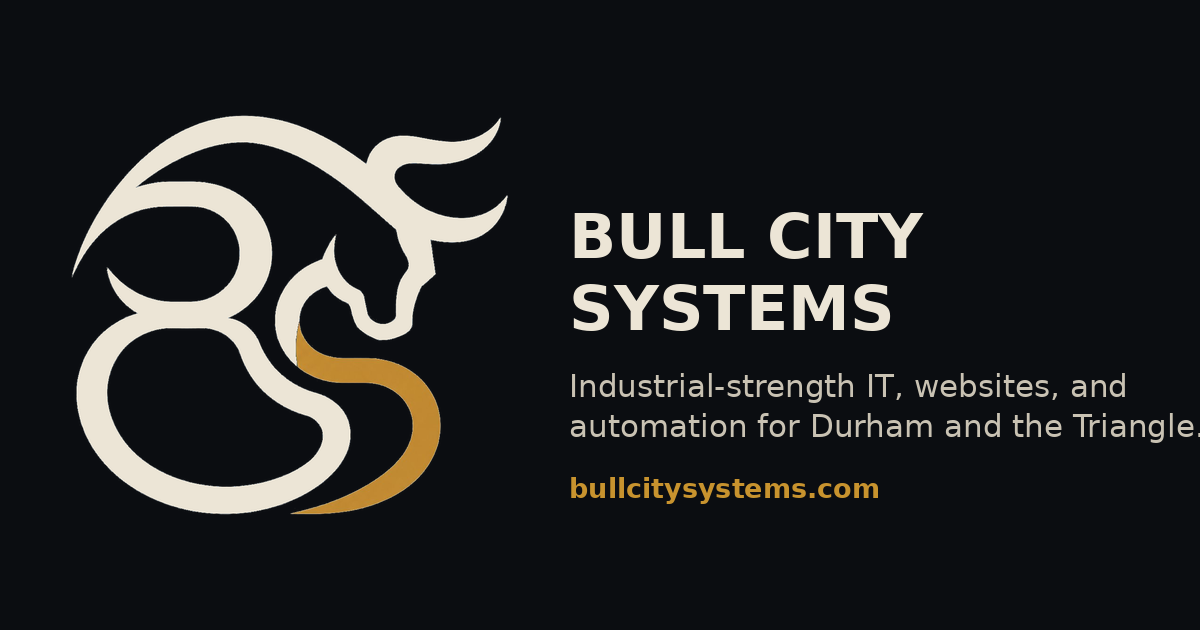
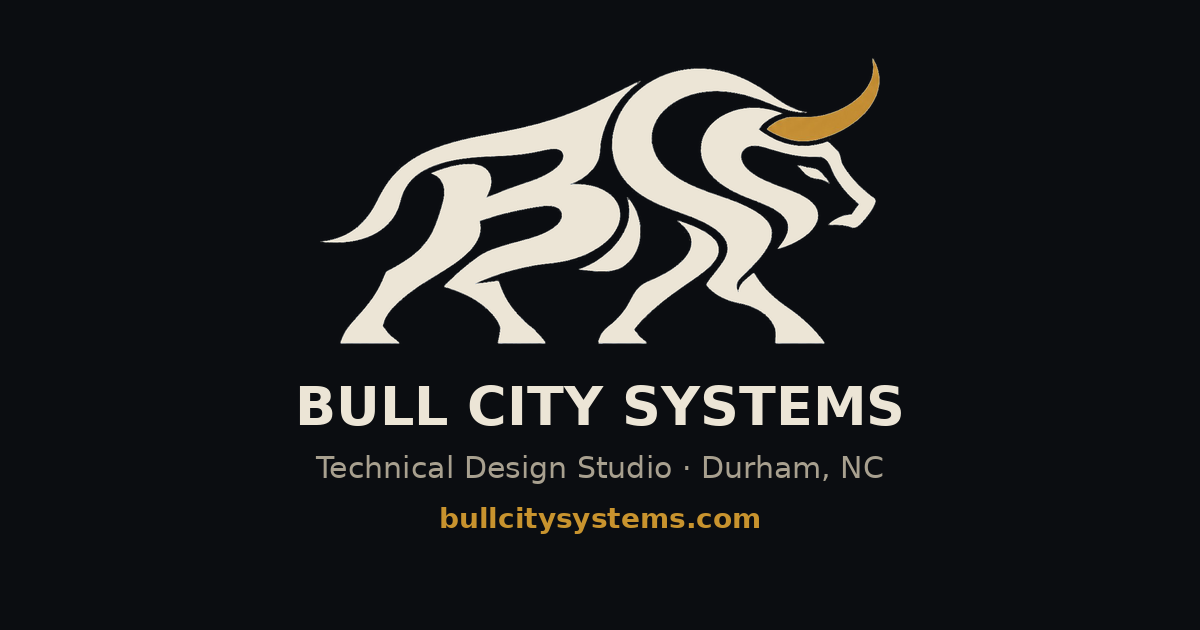
Full bull doctrine: B3 bull in nav/footer/OG, seal reserved for thumbnails; footer drops veteran-owned for Technical Design Studio

Changed region(s): [[0.0617, 0.0905, 1.0, 0.8444]]

diff --git a/app-intake-footer.jsx b/app-intake-footer.jsx
@@ -17,7 +17,7 @@ function Footer() {
             <BCSMark size={44} />
             <div>
               <div className="footer-name">Bull City Systems</div>
-              <div className="footer-sub"><span className="t-vet">Veteran-owned</span> technical studio<br />serving Durham and the Triangle</div>
+              <div className="footer-sub">Technical design studio<br />serving Durham and the Triangle</div>
             </div>
           </div>
 

diff --git a/app-nav-hero.jsx b/app-nav-hero.jsx
@@ -103,7 +103,7 @@ function Nav() {
 /* Mark / monogram: simple BCS in a notched square */
 function BCSMark({ size = 36 }) {
   return (
-    <img src="brand/logo-mark-cream.png" width={size} height={size} className="bcs-mark" alt="" aria-hidden="true" />
+    <img src="brand/bull-b3-cream.png" width={Math.round(size * 1.954)} height={size} className="bcs-mark" alt="" aria-hidden="true" />
   );
 }
 
